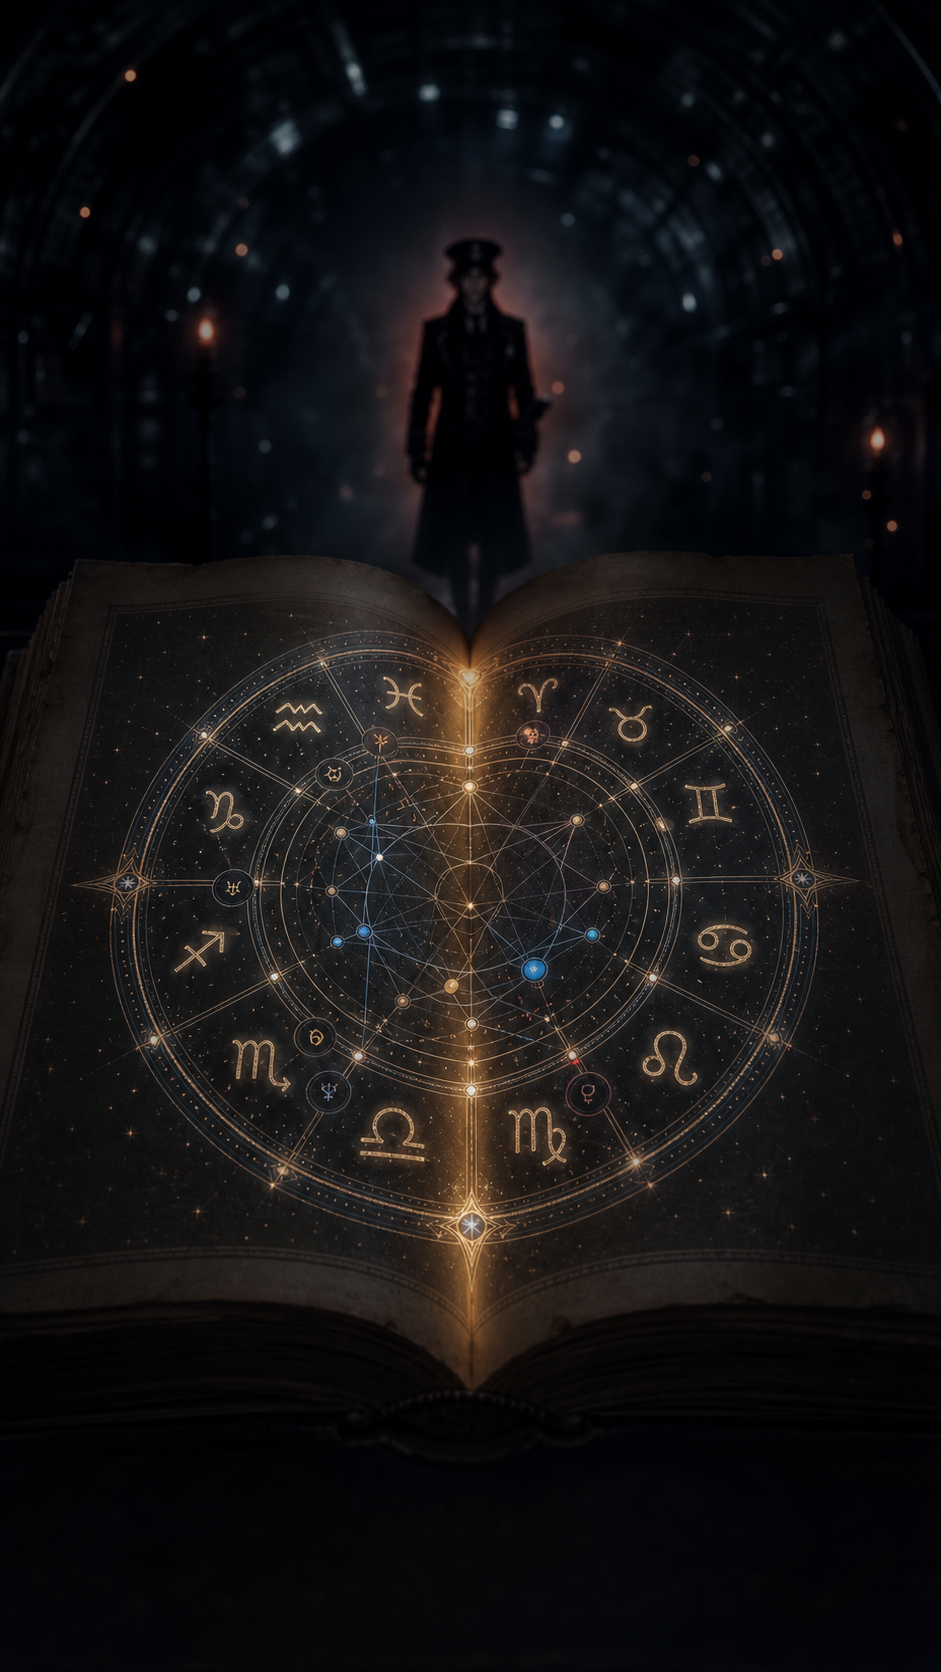
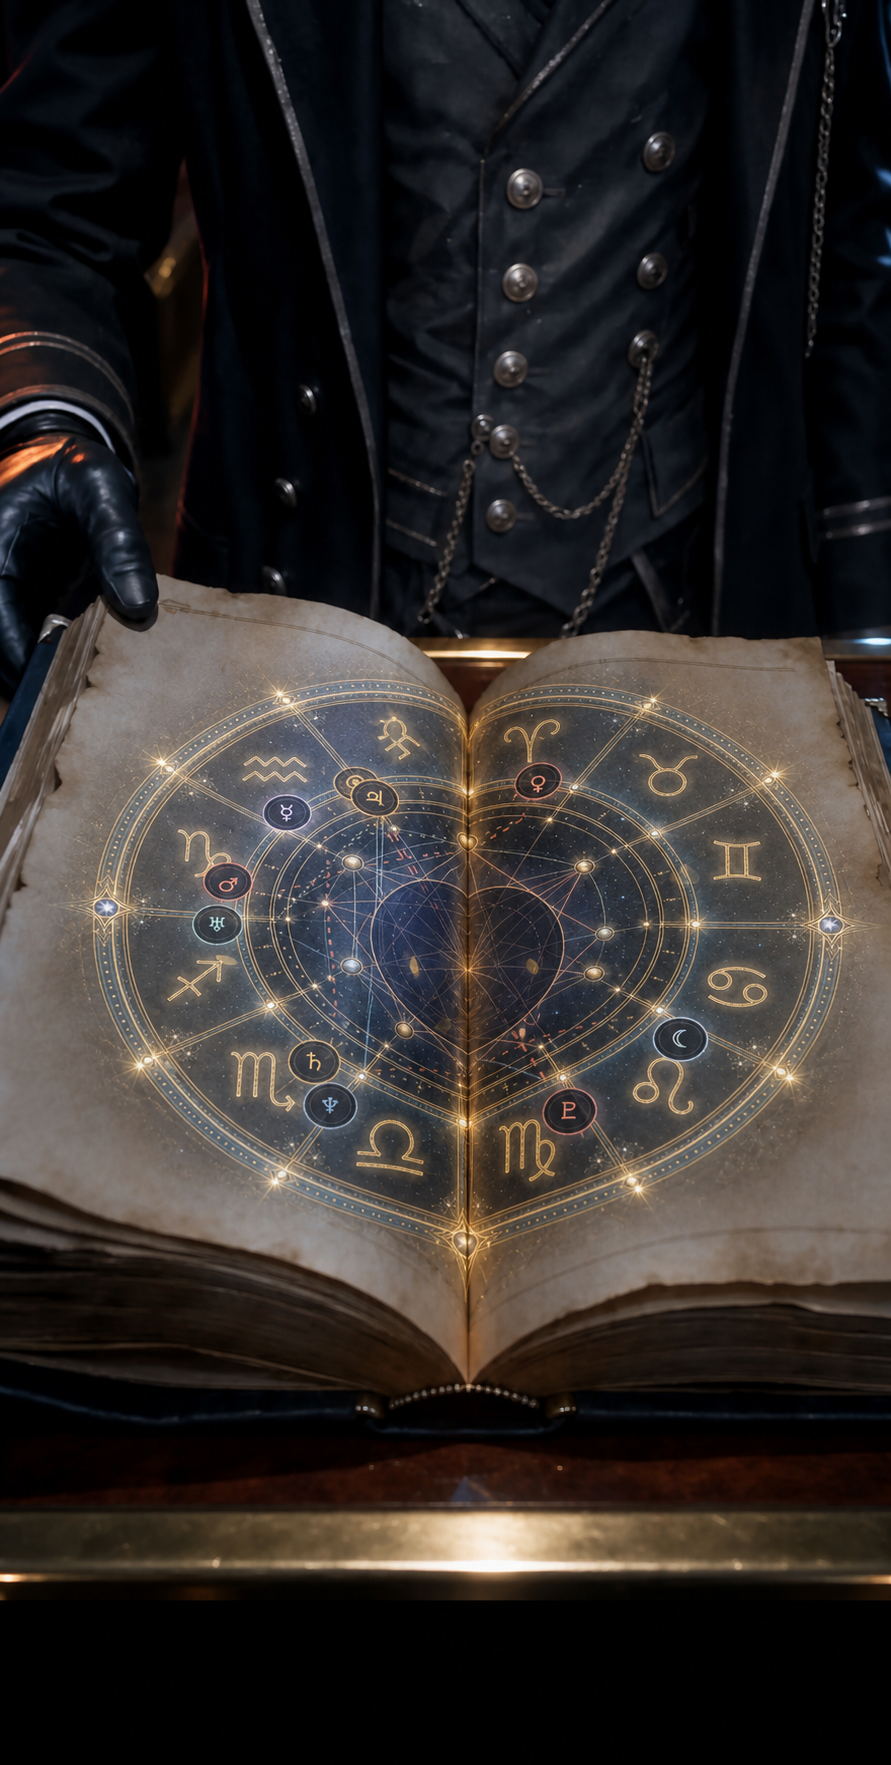
Replace natal chart still with open book frame

diff --git a/app/page.tsx b/app/page.tsx
@@ -208,14 +208,14 @@ const fallbackNatalChart: NatalChartDisplay = {
   title: "出生星盤預覽",
   summary: ["太陽 獅子", "月亮 摩羯", "上升 雙子"],
   points: [
-    { key: "sun", symbol: "☉", sign: "獅子", degreeInSign: 5, x: 42, y: 43 },
-    { key: "moon", symbol: "☽", sign: "摩羯", degreeInSign: 18, x: 28, y: 58 },
-    { key: "ascendant", symbol: "ASC", sign: "雙子", degreeInSign: 12, x: 68, y: 51 },
-    { key: "mercury", symbol: "☿", sign: "巨蟹", degreeInSign: 21, x: 61, y: 45 },
-    { key: "venus", symbol: "♀", sign: "處女", degreeInSign: 9, x: 55, y: 67 },
-    { key: "mars", symbol: "♂", sign: "天蠍", degreeInSign: 14, x: 36, y: 68 },
-    { key: "jupiter", symbol: "♃", sign: "水瓶", degreeInSign: 3, x: 24, y: 49 },
-    { key: "saturn", symbol: "♄", sign: "牡羊", degreeInSign: 27, x: 51, y: 36 },
+    { key: "sun", symbol: "☉", sign: "獅子", degreeInSign: 5, x: 42, y: 41 },
+    { key: "moon", symbol: "☽", sign: "摩羯", degreeInSign: 18, x: 29, y: 53 },
+    { key: "ascendant", symbol: "ASC", sign: "雙子", degreeInSign: 12, x: 68, y: 48 },
+    { key: "mercury", symbol: "☿", sign: "巨蟹", degreeInSign: 21, x: 61, y: 43 },
+    { key: "venus", symbol: "♀", sign: "處女", degreeInSign: 9, x: 55, y: 61 },
+    { key: "mars", symbol: "♂", sign: "天蠍", degreeInSign: 14, x: 36, y: 62 },
+    { key: "jupiter", symbol: "♃", sign: "水瓶", degreeInSign: 3, x: 25, y: 47 },
+    { key: "saturn", symbol: "♄", sign: "牡羊", degreeInSign: 27, x: 51, y: 35 },
   ],
 };
 

diff --git a/app/api/destiny/calculations.js b/app/api/destiny/calculations.js
@@ -246,7 +246,7 @@ function buildNatalChartDisplay(planets, ascendant) {
     summary: [sun && `太陽 ${sun.sign}`, moon && `月亮 ${moon.sign}`, ascendant && `上升 ${ascendant.sign}`].filter(Boolean),
     wheel: {
       centerX: 50,
-      centerY: 56,
+      centerY: 51,
       radiusX: 35,
       radiusY: 22,
     },
@@ -258,7 +258,7 @@ function chartPosition(longitude, radius) {
   const angle = deg2rad(normalizeDegrees(longitude) - 90);
   return {
     x: round(50 + Math.cos(angle) * radius),
-    y: round(56 + Math.sin(angle) * radius * 0.63),
+    y: round(51 + Math.sin(angle) * radius * 0.58),
   };
 }
 
